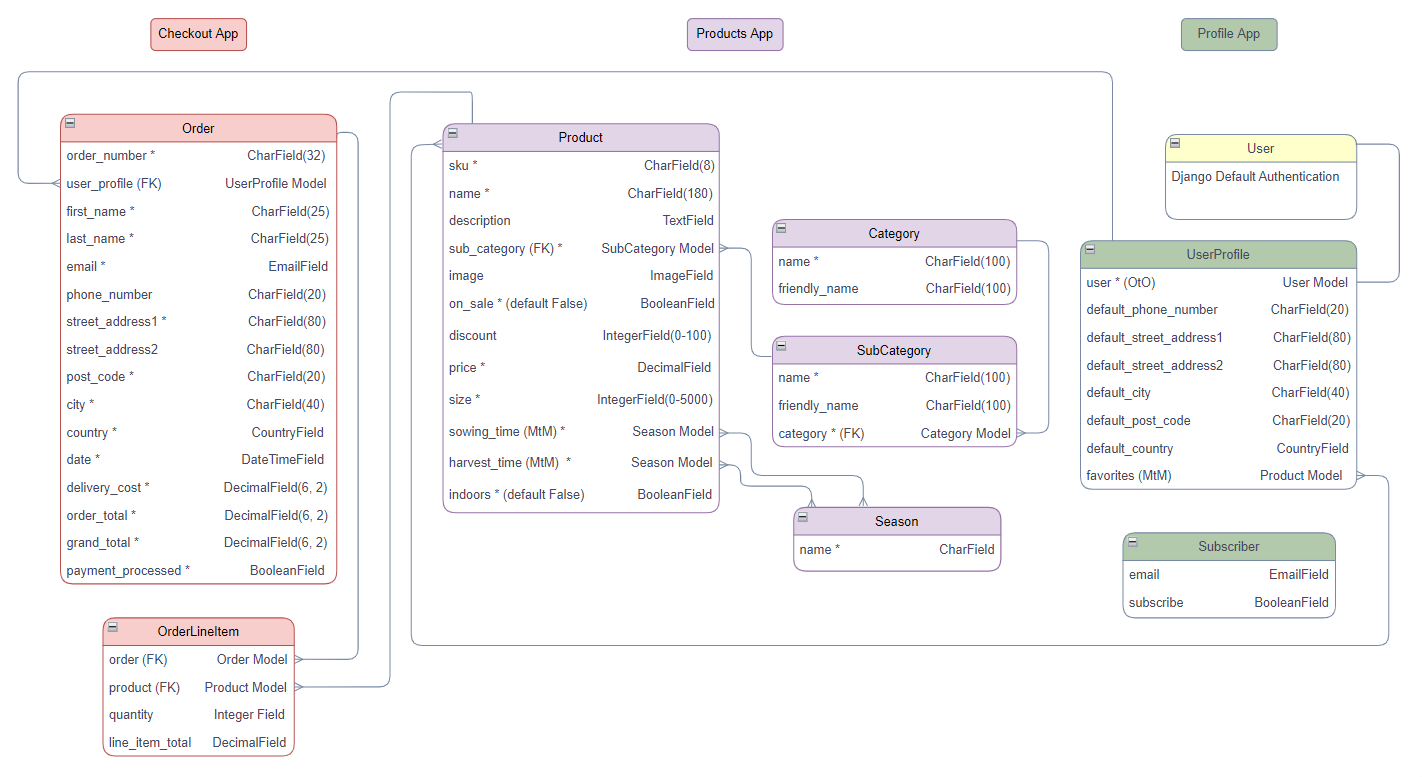
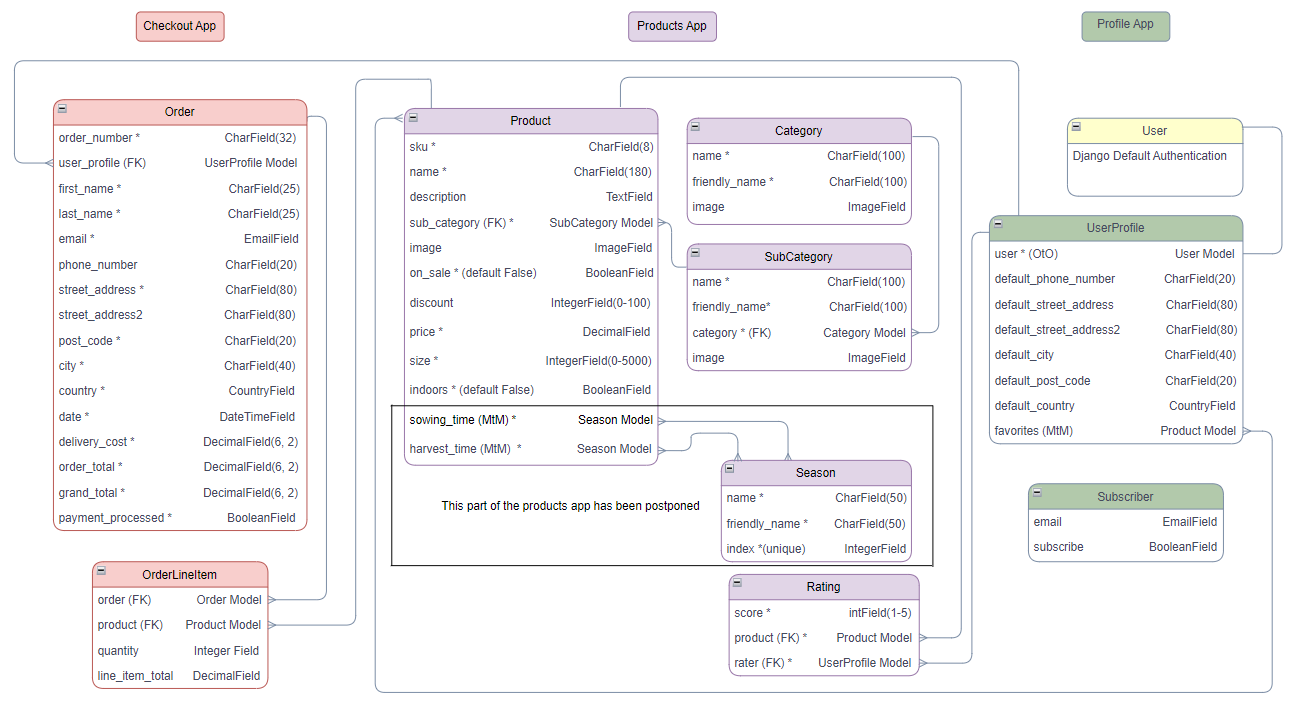
doc: database diagram, season filter removed
I decided to remove the season filters for now. That feature will be
left to be implemented beyond the scope of the project.

The database diagram, the user stories and the product page wireframe
have been updated in this commit.

diff --git a/documentation/user_stories.md b/documentation/user_stories.md
@@ -15,7 +15,7 @@
 |:-------------:|:-----------:|:------------------------|:------------------|:------:|
 | 8 | Shopper | search for a product by name, description or subcategory | easily find the specific seed I am looking for | |
 | 10 | Shopper | sort the available products on name, price or rating | choose the view which suits me the best | |
-| 11 | Shopper | filter products on sowing or harvest months | find seeds that suites my needs | |
+| 11* | Shopper | filter products on sowing or harvest months | find seeds that suites my needs | |
 | 12 | Shopper | find seeds suitable for indoor growing | easily rule out seeds not suitable for my needs | |
 | 13 | Shopper | quickly identify products on sale | make some bargains | |
 | 49 | Shopper | add products to my favorites | easily go back to those products | |
@@ -56,4 +56,4 @@
 | 31 | Store Owner | easily add a product to my site | sell new products | |
 | 32 | Store Owner | easily edit and update a product | ensure the content is correct | |
 | 33 | Store Owner | easily delete a product | make sure the site do not show products no longer for sale | |
-| 34 | Store Owner | choose to put a product up for sale | sell out outgoing products, for instance | |
+| 34 | Store Owner | choose to put a product up on sale | sell out outgoing products, for instance | |
